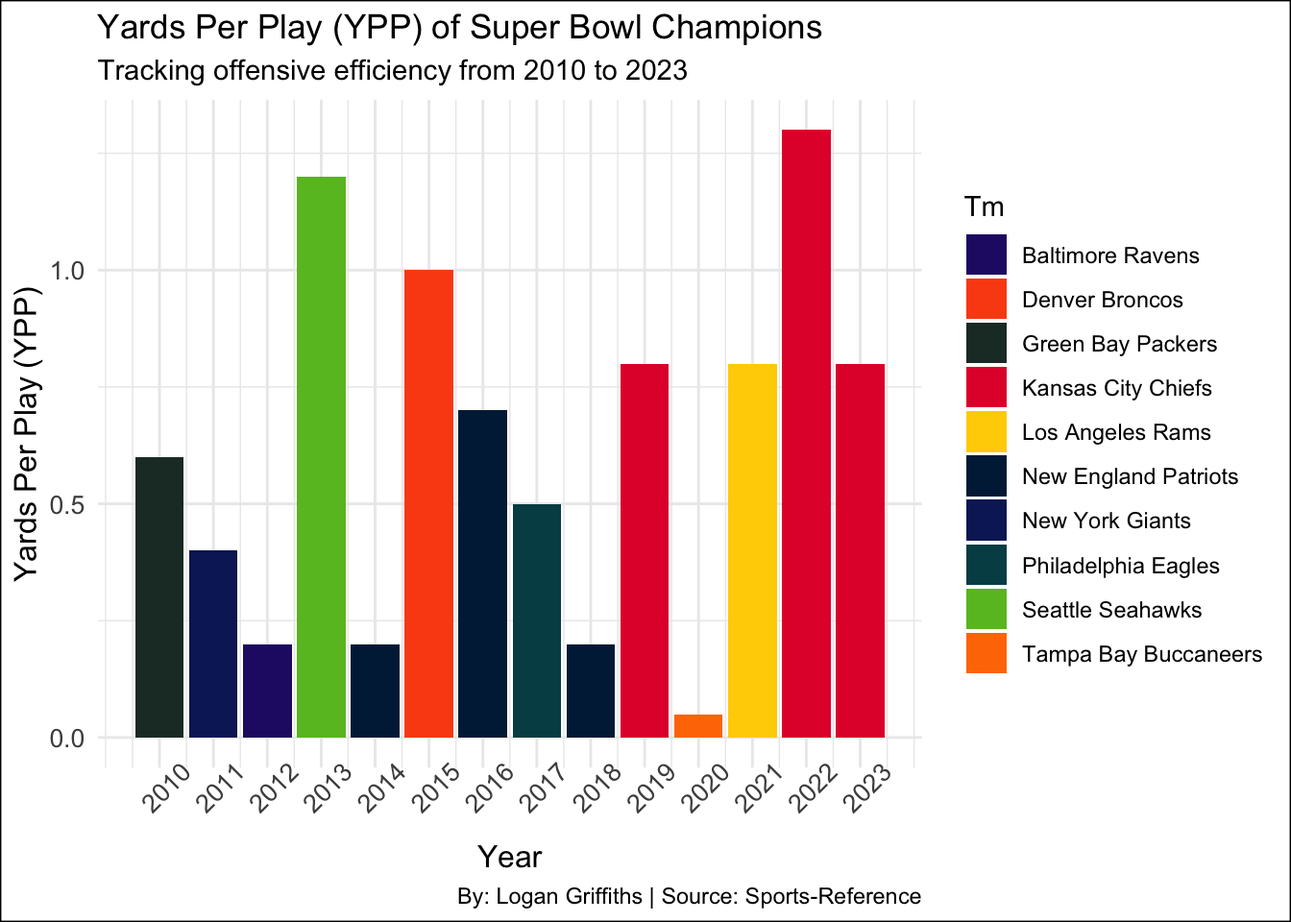
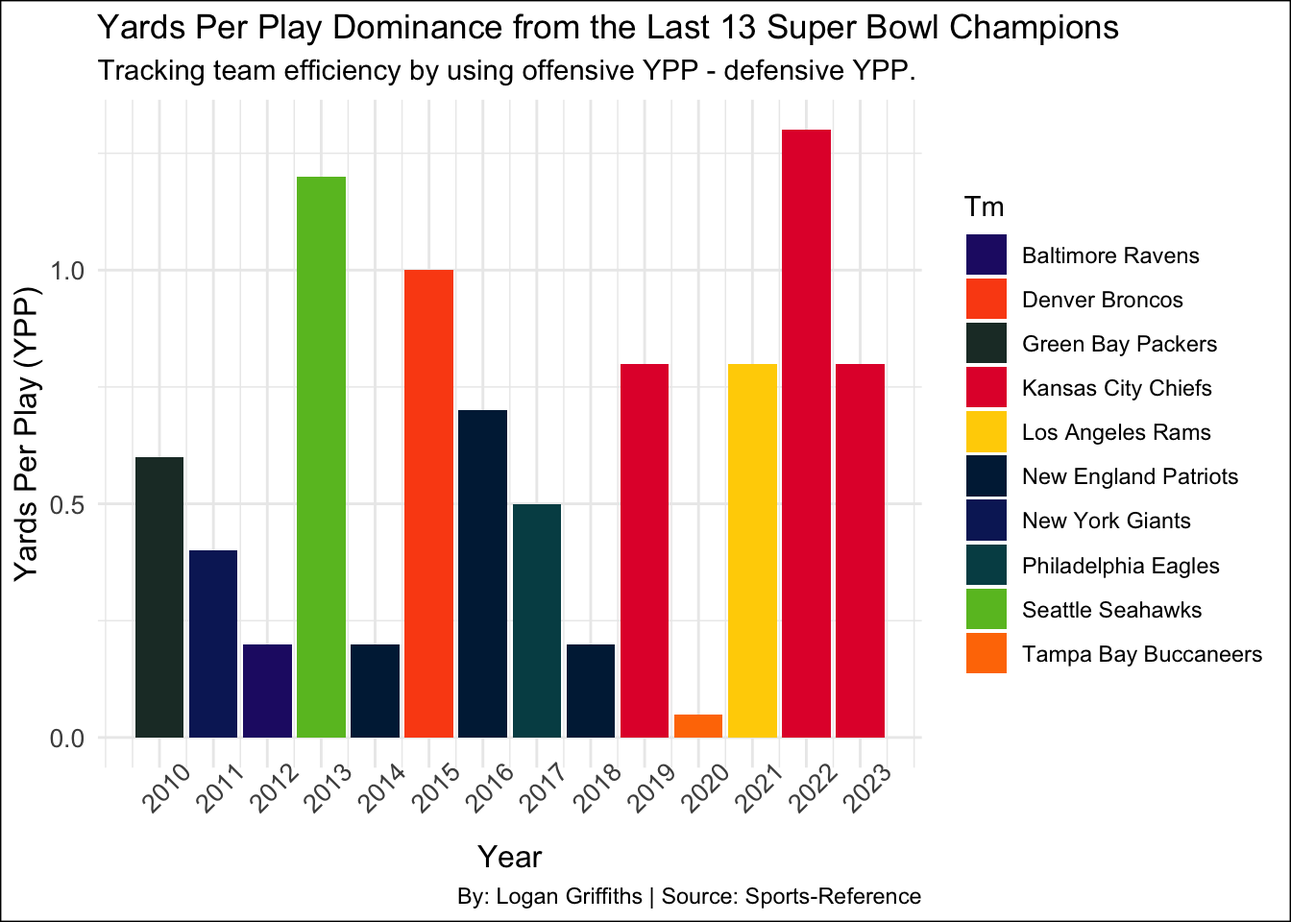
Revision Process

Changed region(s): [[0.1562, 0.0, 0.875, 0.0938]]

diff --git a/posts/Does-Defense-Win-Championships/Index.html b/posts/Does-Defense-Win-Championships/Index.html
@@ -198,22 +198,23 @@ pre > code.sourceCode > span > a:first-child::before { text-decoration: underlin
 <span id="cb1-3"><a href="#cb1-3" aria-hidden="true" tabindex="-1"></a>  <span class="fu">geom_bar</span>(<span class="at">data =</span> Superbowl_Defense, <span class="fu">aes</span>(<span class="at">x =</span> <span class="fu">reorder</span>(Tm, Year), <span class="at">y =</span> Rk, <span class="at">fill =</span> Tm), <span class="at">stat =</span> <span class="st">"identity"</span>) <span class="sc">+</span></span>
 <span id="cb1-4"><a href="#cb1-4" aria-hidden="true" tabindex="-1"></a>  <span class="fu">scale_fill_manual</span>(<span class="at">values =</span> team_colors) <span class="sc">+</span> </span>
 <span id="cb1-5"><a href="#cb1-5" aria-hidden="true" tabindex="-1"></a>  <span class="fu">labs</span>(</span>
-<span id="cb1-6"><a href="#cb1-6" aria-hidden="true" tabindex="-1"></a>    <span class="at">title =</span> <span class="st">"Superbowl Teams Defensive Rankings"</span>,</span>
-<span id="cb1-7"><a href="#cb1-7" aria-hidden="true" tabindex="-1"></a>    <span class="at">subtitle =</span> <span class="st">"The defensive ranking of Superbowl champions the year that they won. (Lower = Better)"</span>,</span>
-<span id="cb1-8"><a href="#cb1-8" aria-hidden="true" tabindex="-1"></a>    <span class="at">caption =</span> <span class="st">"By: Logan Griffiths | Source: Sports-Reference"</span>,</span>
-<span id="cb1-9"><a href="#cb1-9" aria-hidden="true" tabindex="-1"></a>    <span class="at">x =</span> <span class="st">"Team"</span>,</span>
-<span id="cb1-10"><a href="#cb1-10" aria-hidden="true" tabindex="-1"></a>    <span class="at">y =</span> <span class="st">"Defensive Rank"</span></span>
-<span id="cb1-11"><a href="#cb1-11" aria-hidden="true" tabindex="-1"></a>  ) <span class="sc">+</span></span>
-<span id="cb1-12"><a href="#cb1-12" aria-hidden="true" tabindex="-1"></a>  <span class="co">#Adjusting all of the text so that it looks cohesive with in the graph. </span></span>
-<span id="cb1-13"><a href="#cb1-13" aria-hidden="true" tabindex="-1"></a>  <span class="fu">theme_minimal</span>() <span class="sc">+</span></span>
-<span id="cb1-14"><a href="#cb1-14" aria-hidden="true" tabindex="-1"></a>  <span class="fu">theme</span>(</span>
-<span id="cb1-15"><a href="#cb1-15" aria-hidden="true" tabindex="-1"></a>    <span class="at">legend.position =</span> <span class="st">"none"</span>,</span>
-<span id="cb1-16"><a href="#cb1-16" aria-hidden="true" tabindex="-1"></a>    <span class="at">axis.text.y =</span> <span class="fu">element_text</span>(<span class="at">size =</span> <span class="dv">10</span>),</span>
-<span id="cb1-17"><a href="#cb1-17" aria-hidden="true" tabindex="-1"></a>    <span class="at">axis.text.x =</span> <span class="fu">element_text</span>(<span class="at">size =</span> <span class="dv">8</span>, <span class="at">angle =</span> <span class="dv">60</span>, <span class="at">hjust =</span> <span class="dv">1</span>, <span class="at">vjust =</span> <span class="dv">1</span>), </span>
-<span id="cb1-18"><a href="#cb1-18" aria-hidden="true" tabindex="-1"></a>    <span class="at">axis.title.x =</span> <span class="fu">element_text</span>(<span class="at">size =</span> <span class="dv">12</span>), </span>
-<span id="cb1-19"><a href="#cb1-19" aria-hidden="true" tabindex="-1"></a>    <span class="at">axis.title.y =</span> <span class="fu">element_text</span>(<span class="at">size =</span> <span class="dv">12</span>),</span>
-<span id="cb1-20"><a href="#cb1-20" aria-hidden="true" tabindex="-1"></a>    <span class="at">plot.background =</span> <span class="fu">element_rect</span> (<span class="at">fill =</span> <span class="st">"white"</span>),</span>
-<span id="cb1-21"><a href="#cb1-21" aria-hidden="true" tabindex="-1"></a>  )</span></code><button title="Copy to Clipboard" class="code-copy-button"><i class="bi"></i></button></pre></div>
+<span id="cb1-6"><a href="#cb1-6" aria-hidden="true" tabindex="-1"></a>    <span class="at">title =</span> <span class="st">"Superbowl Teams Defensive Rankings From the Last 13 Years"</span>,</span>
+<span id="cb1-7"><a href="#cb1-7" aria-hidden="true" tabindex="-1"></a>    <span class="at">subtitle =</span> <span class="st">"The defensive ranking of superbowl champions by year they won the Super Bowl.</span></span>
+<span id="cb1-8"><a href="#cb1-8" aria-hidden="true" tabindex="-1"></a><span class="st">                                                      (Lower = Better)"</span>,</span>
+<span id="cb1-9"><a href="#cb1-9" aria-hidden="true" tabindex="-1"></a>    <span class="at">caption =</span> <span class="st">"By: Logan Griffiths | Source: Sports-Reference"</span>,</span>
+<span id="cb1-10"><a href="#cb1-10" aria-hidden="true" tabindex="-1"></a>    <span class="at">x =</span> <span class="st">"Team"</span>,</span>
+<span id="cb1-11"><a href="#cb1-11" aria-hidden="true" tabindex="-1"></a>    <span class="at">y =</span> <span class="st">"Defensive Rank"</span></span>
+<span id="cb1-12"><a href="#cb1-12" aria-hidden="true" tabindex="-1"></a>  ) <span class="sc">+</span></span>
+<span id="cb1-13"><a href="#cb1-13" aria-hidden="true" tabindex="-1"></a>  <span class="co">#Adjusting all of the text so that it looks cohesive with in the graph. </span></span>
+<span id="cb1-14"><a href="#cb1-14" aria-hidden="true" tabindex="-1"></a>  <span class="fu">theme_minimal</span>() <span class="sc">+</span></span>
+<span id="cb1-15"><a href="#cb1-15" aria-hidden="true" tabindex="-1"></a>  <span class="fu">theme</span>(</span>
+<span id="cb1-16"><a href="#cb1-16" aria-hidden="true" tabindex="-1"></a>    <span class="at">legend.position =</span> <span class="st">"none"</span>,</span>
+<span id="cb1-17"><a href="#cb1-17" aria-hidden="true" tabindex="-1"></a>    <span class="at">axis.text.y =</span> <span class="fu">element_text</span>(<span class="at">size =</span> <span class="dv">10</span>),</span>
+<span id="cb1-18"><a href="#cb1-18" aria-hidden="true" tabindex="-1"></a>    <span class="at">axis.text.x =</span> <span class="fu">element_text</span>(<span class="at">size =</span> <span class="dv">8</span>, <span class="at">angle =</span> <span class="dv">60</span>, <span class="at">hjust =</span> <span class="dv">1</span>, <span class="at">vjust =</span> <span class="dv">1</span>), </span>
+<span id="cb1-19"><a href="#cb1-19" aria-hidden="true" tabindex="-1"></a>    <span class="at">axis.title.x =</span> <span class="fu">element_text</span>(<span class="at">size =</span> <span class="dv">12</span>), </span>
+<span id="cb1-20"><a href="#cb1-20" aria-hidden="true" tabindex="-1"></a>    <span class="at">axis.title.y =</span> <span class="fu">element_text</span>(<span class="at">size =</span> <span class="dv">12</span>),</span>
+<span id="cb1-21"><a href="#cb1-21" aria-hidden="true" tabindex="-1"></a>    <span class="at">plot.background =</span> <span class="fu">element_rect</span> (<span class="at">fill =</span> <span class="st">"white"</span>),</span>
+<span id="cb1-22"><a href="#cb1-22" aria-hidden="true" tabindex="-1"></a>  )</span></code><button title="Copy to Clipboard" class="code-copy-button"><i class="bi"></i></button></pre></div>
 </details>
 <div class="cell-output-display">
 <div>
@@ -230,38 +231,44 @@ pre > code.sourceCode > span > a:first-child::before { text-decoration: underlin
 <details class="code-fold">
 <summary>Code</summary>
 <div class="sourceCode cell-code" id="cb2"><pre class="sourceCode r code-with-copy"><code class="sourceCode r"><span id="cb2-1"><a href="#cb2-1" aria-hidden="true" tabindex="-1"></a><span class="fu">ggplot</span>() <span class="sc">+</span></span>
-<span id="cb2-2"><a href="#cb2-2" aria-hidden="true" tabindex="-1"></a>  <span class="co"># Adding a pattern to show that there is a correlation whether you have a bad offense or defense</span></span>
-<span id="cb2-3"><a href="#cb2-3" aria-hidden="true" tabindex="-1"></a>  <span class="co"># and that you still fit in the mold. This code chunk will add a grey striped pattern.</span></span>
-<span id="cb2-4"><a href="#cb2-4" aria-hidden="true" tabindex="-1"></a>  <span class="fu">geom_rect_pattern</span>(</span>
-<span id="cb2-5"><a href="#cb2-5" aria-hidden="true" tabindex="-1"></a>    <span class="fu">aes</span>(<span class="at">xmin =</span> <span class="dv">10</span>, <span class="at">xmax =</span> <span class="dv">25</span>, <span class="at">ymin =</span> <span class="dv">10</span>, <span class="at">ymax =</span> <span class="dv">20</span>),</span>
-<span id="cb2-6"><a href="#cb2-6" aria-hidden="true" tabindex="-1"></a>    <span class="at">fill =</span> <span class="cn">NA</span>, <span class="at">color =</span> <span class="st">"red"</span>, <span class="at">pattern =</span> <span class="st">"stripe"</span>,</span>
-<span id="cb2-7"><a href="#cb2-7" aria-hidden="true" tabindex="-1"></a>    <span class="at">pattern_color =</span> <span class="st">"red"</span>, <span class="at">pattern_angle =</span> <span class="dv">45</span>, <span class="at">pattern_density =</span> <span class="fl">0.1</span>,</span>
-<span id="cb2-8"><a href="#cb2-8" aria-hidden="true" tabindex="-1"></a>    <span class="at">pattern_spacing =</span> <span class="fl">0.01</span>, <span class="at">inherit.aes =</span> <span class="cn">FALSE</span></span>
-<span id="cb2-9"><a href="#cb2-9" aria-hidden="true" tabindex="-1"></a>  ) <span class="sc">+</span></span>
-<span id="cb2-10"><a href="#cb2-10" aria-hidden="true" tabindex="-1"></a>  <span class="fu">geom_point</span>(<span class="at">data =</span> offenseanddefense, <span class="fu">aes</span>(<span class="at">x =</span> Rk.x, <span class="at">y =</span> Rk.y, <span class="at">color =</span> Tm), <span class="at">size =</span> <span class="dv">4</span>) <span class="sc">+</span> </span>
-<span id="cb2-11"><a href="#cb2-11" aria-hidden="true" tabindex="-1"></a>  <span class="fu">geom_text</span>(<span class="at">data =</span> offenseanddefense, </span>
-<span id="cb2-12"><a href="#cb2-12" aria-hidden="true" tabindex="-1"></a>            <span class="fu">aes</span>(<span class="at">x =</span> Rk.x, <span class="at">y =</span> Rk.y, <span class="at">label =</span> Year), </span>
-<span id="cb2-13"><a href="#cb2-13" aria-hidden="true" tabindex="-1"></a>            <span class="at">hjust =</span> <span class="fu">ifelse</span>(offenseanddefense<span class="sc">$</span>Year <span class="sc">==</span> <span class="dv">2014</span>, <span class="sc">-</span>.<span class="dv">5</span>, <span class="fl">0.5</span>), <span class="co"># Originally 2014 was overlapping 2018, so I horizontally adjusted it to align it properly.</span></span>
-<span id="cb2-14"><a href="#cb2-14" aria-hidden="true" tabindex="-1"></a>            <span class="at">vjust =</span> <span class="fu">ifelse</span>(offenseanddefense<span class="sc">$</span>Year <span class="sc">%in%</span> <span class="fu">c</span>(<span class="dv">2021</span>, <span class="dv">2019</span>, <span class="dv">2022</span>), <span class="sc">-</span><span class="dv">2</span>, </span>
-<span id="cb2-15"><a href="#cb2-15" aria-hidden="true" tabindex="-1"></a>                           <span class="fu">ifelse</span>(offenseanddefense<span class="sc">$</span>Year <span class="sc">==</span> <span class="dv">2014</span>, <span class="dv">0</span>, <span class="dv">3</span>)), <span class="co"># Originally 2021,2019,2022, and 2014 were all overlapping with some dot or text. I vertically adjusted so the graph would be cleaner. </span></span>
-<span id="cb2-16"><a href="#cb2-16" aria-hidden="true" tabindex="-1"></a>            <span class="at">size =</span> <span class="fl">2.5</span>) <span class="sc">+</span> </span>
-<span id="cb2-17"><a href="#cb2-17" aria-hidden="true" tabindex="-1"></a>  <span class="fu">labs</span>(</span>
-<span id="cb2-18"><a href="#cb2-18" aria-hidden="true" tabindex="-1"></a>    <span class="at">title =</span> <span class="st">"Comparison of Defensive and Offensive Ranks"</span>,</span>
-<span id="cb2-19"><a href="#cb2-19" aria-hidden="true" tabindex="-1"></a>    <span class="at">subtitle =</span> <span class="st">"Super Bowl champions' defensive and offensive ranks in the year they won (Lower = Better)"</span>,</span>
-<span id="cb2-20"><a href="#cb2-20" aria-hidden="true" tabindex="-1"></a>    <span class="at">x =</span> <span class="st">"Defensive Rank"</span>,</span>
-<span id="cb2-21"><a href="#cb2-21" aria-hidden="true" tabindex="-1"></a>    <span class="at">y =</span> <span class="st">"Offensive Rank"</span>,</span>
-<span id="cb2-22"><a href="#cb2-22" aria-hidden="true" tabindex="-1"></a>    <span class="at">color =</span> <span class="st">"Team"</span>, </span>
-<span id="cb2-23"><a href="#cb2-23" aria-hidden="true" tabindex="-1"></a>    <span class="at">caption =</span> <span class="st">"By: Logan Griffiths | Source: Sports-Reference"</span></span>
-<span id="cb2-24"><a href="#cb2-24" aria-hidden="true" tabindex="-1"></a>  ) <span class="sc">+</span></span>
-<span id="cb2-25"><a href="#cb2-25" aria-hidden="true" tabindex="-1"></a>  <span class="fu">scale_color_manual</span>(<span class="at">values =</span> team_colors_two) <span class="sc">+</span> </span>
-<span id="cb2-26"><a href="#cb2-26" aria-hidden="true" tabindex="-1"></a>  <span class="fu">theme_minimal</span>() <span class="sc">+</span></span>
-<span id="cb2-27"><a href="#cb2-27" aria-hidden="true" tabindex="-1"></a>  <span class="fu">theme</span>(</span>
-<span id="cb2-28"><a href="#cb2-28" aria-hidden="true" tabindex="-1"></a>    <span class="at">legend.position =</span> <span class="st">"right"</span>, </span>
-<span id="cb2-29"><a href="#cb2-29" aria-hidden="true" tabindex="-1"></a>    <span class="at">legend.text =</span> <span class="fu">element_text</span>(<span class="at">size =</span> <span class="dv">8</span>), </span>
-<span id="cb2-30"><a href="#cb2-30" aria-hidden="true" tabindex="-1"></a>    <span class="at">axis.text =</span> <span class="fu">element_text</span>(<span class="at">size =</span> <span class="dv">10</span>),</span>
-<span id="cb2-31"><a href="#cb2-31" aria-hidden="true" tabindex="-1"></a>    <span class="at">axis.title =</span> <span class="fu">element_text</span>(<span class="at">size =</span> <span class="dv">12</span>),</span>
-<span id="cb2-32"><a href="#cb2-32" aria-hidden="true" tabindex="-1"></a>    <span class="at">plot.background =</span> <span class="fu">element_rect</span> (<span class="at">fill =</span> <span class="st">"white"</span>)</span>
-<span id="cb2-33"><a href="#cb2-33" aria-hidden="true" tabindex="-1"></a>  )</span></code><button title="Copy to Clipboard" class="code-copy-button"><i class="bi"></i></button></pre></div>
+<span id="cb2-2"><a href="#cb2-2" aria-hidden="true" tabindex="-1"></a>  <span class="co"># Adding a pattern to show that there is a correlation whether you have a bad offense or defense and that you still fit in the mold. This code chunk will add a grey striped pattern. The red part is showing that now Super Bowl Team has been out of the Top 10 for both offense and defense. </span></span>
+<span id="cb2-3"><a href="#cb2-3" aria-hidden="true" tabindex="-1"></a>  <span class="fu">geom_rect_pattern</span>(</span>
+<span id="cb2-4"><a href="#cb2-4" aria-hidden="true" tabindex="-1"></a>    <span class="fu">aes</span>(<span class="at">xmin =</span> <span class="dv">10</span>, <span class="at">xmax =</span> <span class="dv">25</span>, <span class="at">ymin =</span> <span class="dv">10</span>, <span class="at">ymax =</span> <span class="dv">20</span>),</span>
+<span id="cb2-5"><a href="#cb2-5" aria-hidden="true" tabindex="-1"></a>    <span class="at">fill =</span> <span class="cn">NA</span>, <span class="at">color =</span> <span class="st">"red"</span>, <span class="at">pattern =</span> <span class="st">"stripe"</span>,</span>
+<span id="cb2-6"><a href="#cb2-6" aria-hidden="true" tabindex="-1"></a>    <span class="at">pattern_color =</span> <span class="st">"lightgrey"</span>, <span class="at">pattern_angle =</span> <span class="dv">45</span>, <span class="at">pattern_density =</span> <span class="fl">0.05</span>,</span>
+<span id="cb2-7"><a href="#cb2-7" aria-hidden="true" tabindex="-1"></a>    <span class="at">pattern_spacing =</span> <span class="fl">0.01</span>, <span class="at">inherit.aes =</span> <span class="cn">FALSE</span></span>
+<span id="cb2-8"><a href="#cb2-8" aria-hidden="true" tabindex="-1"></a>  ) <span class="sc">+</span></span>
+<span id="cb2-9"><a href="#cb2-9" aria-hidden="true" tabindex="-1"></a>  <span class="fu">geom_point</span>(<span class="at">data =</span> offenseanddefense, <span class="fu">aes</span>(<span class="at">x =</span> Rk.x, <span class="at">y =</span> Rk.y, <span class="at">color =</span> Tm), <span class="at">size =</span> <span class="dv">4</span>) <span class="sc">+</span> </span>
+<span id="cb2-10"><a href="#cb2-10" aria-hidden="true" tabindex="-1"></a>  <span class="fu">geom_text</span>(<span class="at">data =</span> offenseanddefense, </span>
+<span id="cb2-11"><a href="#cb2-11" aria-hidden="true" tabindex="-1"></a>            <span class="fu">aes</span>(<span class="at">x =</span> Rk.x, <span class="at">y =</span> Rk.y, <span class="at">label =</span> Year), </span>
+<span id="cb2-12"><a href="#cb2-12" aria-hidden="true" tabindex="-1"></a>            <span class="at">hjust =</span> <span class="fu">ifelse</span>(offenseanddefense<span class="sc">$</span>Year <span class="sc">==</span> <span class="dv">2014</span>, <span class="sc">-</span>.<span class="dv">5</span>, <span class="fl">0.5</span>), <span class="co"># Originally 2014 was overlapping 2018, so I horizontally adjusted it to align it properly.</span></span>
+<span id="cb2-13"><a href="#cb2-13" aria-hidden="true" tabindex="-1"></a>            <span class="at">vjust =</span> <span class="fu">ifelse</span>(offenseanddefense<span class="sc">$</span>Year <span class="sc">%in%</span> <span class="fu">c</span>(<span class="dv">2021</span>, <span class="dv">2019</span>, <span class="dv">2022</span>), <span class="sc">-</span><span class="dv">2</span>, </span>
+<span id="cb2-14"><a href="#cb2-14" aria-hidden="true" tabindex="-1"></a>                           <span class="fu">ifelse</span>(offenseanddefense<span class="sc">$</span>Year <span class="sc">==</span> <span class="dv">2014</span>, <span class="dv">0</span>, <span class="dv">3</span>)), <span class="co"># Originally 2021,2019,2022, and 2014 were all overlapping with some dot or text. I vertically adjusted so the graph would be cleaner. </span></span>
+<span id="cb2-15"><a href="#cb2-15" aria-hidden="true" tabindex="-1"></a>            <span class="at">size =</span> <span class="fl">2.5</span>) <span class="sc">+</span> </span>
+<span id="cb2-16"><a href="#cb2-16" aria-hidden="true" tabindex="-1"></a>  <span class="co">#Annotating the red box for context.</span></span>
+<span id="cb2-17"><a href="#cb2-17" aria-hidden="true" tabindex="-1"></a>   <span class="fu">annotate</span>(</span>
+<span id="cb2-18"><a href="#cb2-18" aria-hidden="true" tabindex="-1"></a>    <span class="st">"text"</span>, <span class="at">x =</span> <span class="fl">17.5</span>, <span class="at">y =</span> <span class="dv">15</span>, <span class="at">label =</span> <span class="st">"No Super Bowl champion has been </span></span>
+<span id="cb2-19"><a href="#cb2-19" aria-hidden="true" tabindex="-1"></a><span class="st">    outside the top 10 for both metrics."</span>,</span>
+<span id="cb2-20"><a href="#cb2-20" aria-hidden="true" tabindex="-1"></a>    <span class="at">color =</span> <span class="st">"black"</span>, <span class="at">size =</span> <span class="dv">4</span>, <span class="at">hjust =</span> <span class="fl">0.5</span></span>
+<span id="cb2-21"><a href="#cb2-21" aria-hidden="true" tabindex="-1"></a>  ) <span class="sc">+</span></span>
+<span id="cb2-22"><a href="#cb2-22" aria-hidden="true" tabindex="-1"></a>  <span class="co">#Adding all of the labels for my chart.</span></span>
+<span id="cb2-23"><a href="#cb2-23" aria-hidden="true" tabindex="-1"></a>  <span class="fu">labs</span>(</span>
+<span id="cb2-24"><a href="#cb2-24" aria-hidden="true" tabindex="-1"></a>    <span class="at">title =</span> <span class="st">"The Last 13 Super Bowl Winners Offensive-Defensive Comparison "</span>,</span>
+<span id="cb2-25"><a href="#cb2-25" aria-hidden="true" tabindex="-1"></a>    <span class="at">subtitle =</span> <span class="st">"Super Bowl champions' defensive and offensive ranks in the year they won."</span>,</span>
+<span id="cb2-26"><a href="#cb2-26" aria-hidden="true" tabindex="-1"></a>    <span class="at">x =</span> <span class="st">"Defensive Rank"</span>,</span>
+<span id="cb2-27"><a href="#cb2-27" aria-hidden="true" tabindex="-1"></a>    <span class="at">y =</span> <span class="st">"Offensive Rank"</span>,</span>
+<span id="cb2-28"><a href="#cb2-28" aria-hidden="true" tabindex="-1"></a>    <span class="at">color =</span> <span class="st">"Team"</span>, </span>
+<span id="cb2-29"><a href="#cb2-29" aria-hidden="true" tabindex="-1"></a>    <span class="at">caption =</span> <span class="st">"By: Logan Griffiths | Source: Sports-Reference"</span></span>
+<span id="cb2-30"><a href="#cb2-30" aria-hidden="true" tabindex="-1"></a>  ) <span class="sc">+</span></span>
+<span id="cb2-31"><a href="#cb2-31" aria-hidden="true" tabindex="-1"></a>  <span class="fu">scale_color_manual</span>(<span class="at">values =</span> team_colors_two) <span class="sc">+</span> </span>
+<span id="cb2-32"><a href="#cb2-32" aria-hidden="true" tabindex="-1"></a>  <span class="fu">theme_minimal</span>() <span class="sc">+</span></span>
+<span id="cb2-33"><a href="#cb2-33" aria-hidden="true" tabindex="-1"></a>  <span class="fu">theme</span>(</span>
+<span id="cb2-34"><a href="#cb2-34" aria-hidden="true" tabindex="-1"></a>    <span class="at">legend.position =</span> <span class="st">"right"</span>, </span>
+<span id="cb2-35"><a href="#cb2-35" aria-hidden="true" tabindex="-1"></a>    <span class="at">legend.text =</span> <span class="fu">element_text</span>(<span class="at">size =</span> <span class="dv">8</span>), </span>
+<span id="cb2-36"><a href="#cb2-36" aria-hidden="true" tabindex="-1"></a>    <span class="at">axis.text =</span> <span class="fu">element_text</span>(<span class="at">size =</span> <span class="dv">10</span>),</span>
+<span id="cb2-37"><a href="#cb2-37" aria-hidden="true" tabindex="-1"></a>    <span class="at">axis.title =</span> <span class="fu">element_text</span>(<span class="at">size =</span> <span class="dv">12</span>),</span>
+<span id="cb2-38"><a href="#cb2-38" aria-hidden="true" tabindex="-1"></a>    <span class="at">plot.background =</span> <span class="fu">element_rect</span> (<span class="at">fill =</span> <span class="st">"white"</span>)</span>
+<span id="cb2-39"><a href="#cb2-39" aria-hidden="true" tabindex="-1"></a>  )</span></code><button title="Copy to Clipboard" class="code-copy-button"><i class="bi"></i></button></pre></div>
 </details>
 <div class="cell-output-display">
 <div>
@@ -279,26 +286,28 @@ pre > code.sourceCode > span > a:first-child::before { text-decoration: underlin
 <div class="cell">
 <details class="code-fold">
 <summary>Code</summary>
-<div class="sourceCode cell-code" id="cb3"><pre class="sourceCode r code-with-copy"><code class="sourceCode r"><span id="cb3-1"><a href="#cb3-1" aria-hidden="true" tabindex="-1"></a><span class="fu">ggplot</span>() <span class="sc">+</span></span>
-<span id="cb3-2"><a href="#cb3-2" aria-hidden="true" tabindex="-1"></a>  <span class="fu">geom_bar</span>(<span class="at">data =</span> YPP_Difference, <span class="fu">aes</span>(<span class="at">x =</span> Year, <span class="at">y =</span> YPP, <span class="at">fill =</span> Tm), <span class="at">stat =</span> <span class="st">"identity"</span>) <span class="sc">+</span></span>
-<span id="cb3-3"><a href="#cb3-3" aria-hidden="true" tabindex="-1"></a>  <span class="fu">scale_fill_manual</span>(<span class="at">values =</span> team_colors_two) <span class="sc">+</span> </span>
-<span id="cb3-4"><a href="#cb3-4" aria-hidden="true" tabindex="-1"></a>  <span class="fu">scale_x_continuous</span>(<span class="at">breaks =</span> <span class="fu">seq</span>(<span class="fu">min</span>(YPP_Difference<span class="sc">$</span>Year), <span class="fu">max</span>(YPP_Difference<span class="sc">$</span>Year), <span class="at">by =</span> <span class="dv">1</span>)) <span class="sc">+</span> </span>
-<span id="cb3-5"><a href="#cb3-5" aria-hidden="true" tabindex="-1"></a>  <span class="fu">labs</span>(</span>
-<span id="cb3-6"><a href="#cb3-6" aria-hidden="true" tabindex="-1"></a>    <span class="at">title =</span> <span class="st">"Yards Per Play (YPP) of Super Bowl Champions"</span>,</span>
-<span id="cb3-7"><a href="#cb3-7" aria-hidden="true" tabindex="-1"></a>    <span class="at">subtitle =</span> <span class="st">"Tracking offensive efficiency from 2010 to 2023"</span>,</span>
-<span id="cb3-8"><a href="#cb3-8" aria-hidden="true" tabindex="-1"></a>    <span class="at">caption =</span> <span class="st">"By: Logan Griffiths | Source: Sports-Reference"</span>,</span>
-<span id="cb3-9"><a href="#cb3-9" aria-hidden="true" tabindex="-1"></a>    <span class="at">x =</span> <span class="st">"Year"</span>,</span>
-<span id="cb3-10"><a href="#cb3-10" aria-hidden="true" tabindex="-1"></a>    <span class="at">y =</span> <span class="st">"Yards Per Play (YPP)"</span></span>
-<span id="cb3-11"><a href="#cb3-11" aria-hidden="true" tabindex="-1"></a>  ) <span class="sc">+</span></span>
-<span id="cb3-12"><a href="#cb3-12" aria-hidden="true" tabindex="-1"></a>  <span class="fu">theme_minimal</span>() <span class="sc">+</span></span>
-<span id="cb3-13"><a href="#cb3-13" aria-hidden="true" tabindex="-1"></a>  <span class="fu">theme</span>(</span>
-<span id="cb3-14"><a href="#cb3-14" aria-hidden="true" tabindex="-1"></a>    <span class="at">legend.position =</span> <span class="st">"right"</span>,</span>
-<span id="cb3-15"><a href="#cb3-15" aria-hidden="true" tabindex="-1"></a>    <span class="at">axis.text.y =</span> <span class="fu">element_text</span>(<span class="at">size =</span> <span class="dv">10</span>),</span>
-<span id="cb3-16"><a href="#cb3-16" aria-hidden="true" tabindex="-1"></a>    <span class="at">axis.text.x =</span> <span class="fu">element_text</span>(<span class="at">size =</span> <span class="dv">10</span>, <span class="at">angle =</span> <span class="dv">45</span>), </span>
-<span id="cb3-17"><a href="#cb3-17" aria-hidden="true" tabindex="-1"></a>    <span class="at">axis.title.x =</span> <span class="fu">element_text</span>(<span class="at">size =</span> <span class="dv">12</span>), </span>
-<span id="cb3-18"><a href="#cb3-18" aria-hidden="true" tabindex="-1"></a>    <span class="at">axis.title.y =</span> <span class="fu">element_text</span>(<span class="at">size =</span> <span class="dv">12</span>),</span>
-<span id="cb3-19"><a href="#cb3-19" aria-hidden="true" tabindex="-1"></a>    <span class="at">plot.background =</span> <span class="fu">element_rect</span>(<span class="at">fill =</span> <span class="st">"white"</span>)</span>
-<span id="cb3-20"><a href="#cb3-20" aria-hidden="true" tabindex="-1"></a>  )</span></code><button title="Copy to Clipboard" class="code-copy-button"><i class="bi"></i></button></pre></div>
+<div class="sourceCode cell-code" id="cb3"><pre class="sourceCode r code-with-copy"><code class="sourceCode r"><span id="cb3-1"><a href="#cb3-1" aria-hidden="true" tabindex="-1"></a><span class="co">#Representing the Yards Per Play Differential for all of the 13 teams who have won the Super Bowl since 2010. I subtracted offensive yards per play - defensive yards per play. </span></span>
+<span id="cb3-2"><a href="#cb3-2" aria-hidden="true" tabindex="-1"></a><span class="co">#Additionally this is where I have added labels for the graph. </span></span>
+<span id="cb3-3"><a href="#cb3-3" aria-hidden="true" tabindex="-1"></a><span class="fu">ggplot</span>() <span class="sc">+</span></span>
+<span id="cb3-4"><a href="#cb3-4" aria-hidden="true" tabindex="-1"></a>  <span class="fu">geom_bar</span>(<span class="at">data =</span> YPP_Difference, <span class="fu">aes</span>(<span class="at">x =</span> Year, <span class="at">y =</span> YPP, <span class="at">fill =</span> Tm), <span class="at">stat =</span> <span class="st">"identity"</span>) <span class="sc">+</span></span>
+<span id="cb3-5"><a href="#cb3-5" aria-hidden="true" tabindex="-1"></a>  <span class="fu">scale_fill_manual</span>(<span class="at">values =</span> team_colors_two) <span class="sc">+</span> </span>
+<span id="cb3-6"><a href="#cb3-6" aria-hidden="true" tabindex="-1"></a>  <span class="fu">scale_x_continuous</span>(<span class="at">breaks =</span> <span class="fu">seq</span>(<span class="fu">min</span>(YPP_Difference<span class="sc">$</span>Year), <span class="fu">max</span>(YPP_Difference<span class="sc">$</span>Year), <span class="at">by =</span> <span class="dv">1</span>)) <span class="sc">+</span> </span>
+<span id="cb3-7"><a href="#cb3-7" aria-hidden="true" tabindex="-1"></a>  <span class="fu">labs</span>(</span>
+<span id="cb3-8"><a href="#cb3-8" aria-hidden="true" tabindex="-1"></a>    <span class="at">title =</span> <span class="st">"Yards Per Play Dominance from the Last 13 Super Bowl Champions"</span>,</span>
+<span id="cb3-9"><a href="#cb3-9" aria-hidden="true" tabindex="-1"></a>    <span class="at">subtitle =</span> <span class="st">"Tracking team efficiency by using offensive YPP - defensive YPP."</span>,</span>
+<span id="cb3-10"><a href="#cb3-10" aria-hidden="true" tabindex="-1"></a>    <span class="at">caption =</span> <span class="st">"By: Logan Griffiths | Source: Sports-Reference"</span>,</span>
+<span id="cb3-11"><a href="#cb3-11" aria-hidden="true" tabindex="-1"></a>    <span class="at">x =</span> <span class="st">"Year"</span>,</span>
+<span id="cb3-12"><a href="#cb3-12" aria-hidden="true" tabindex="-1"></a>    <span class="at">y =</span> <span class="st">"Yards Per Play (YPP)"</span></span>
+<span id="cb3-13"><a href="#cb3-13" aria-hidden="true" tabindex="-1"></a>  ) <span class="sc">+</span></span>
+<span id="cb3-14"><a href="#cb3-14" aria-hidden="true" tabindex="-1"></a>  <span class="fu">theme_minimal</span>() <span class="sc">+</span></span>
+<span id="cb3-15"><a href="#cb3-15" aria-hidden="true" tabindex="-1"></a>  <span class="fu">theme</span>(</span>
+<span id="cb3-16"><a href="#cb3-16" aria-hidden="true" tabindex="-1"></a>    <span class="at">legend.position =</span> <span class="st">"right"</span>,</span>
+<span id="cb3-17"><a href="#cb3-17" aria-hidden="true" tabindex="-1"></a>    <span class="at">axis.text.y =</span> <span class="fu">element_text</span>(<span class="at">size =</span> <span class="dv">10</span>),</span>
+<span id="cb3-18"><a href="#cb3-18" aria-hidden="true" tabindex="-1"></a>    <span class="at">axis.text.x =</span> <span class="fu">element_text</span>(<span class="at">size =</span> <span class="dv">10</span>, <span class="at">angle =</span> <span class="dv">45</span>), </span>
+<span id="cb3-19"><a href="#cb3-19" aria-hidden="true" tabindex="-1"></a>    <span class="at">axis.title.x =</span> <span class="fu">element_text</span>(<span class="at">size =</span> <span class="dv">12</span>), </span>
+<span id="cb3-20"><a href="#cb3-20" aria-hidden="true" tabindex="-1"></a>    <span class="at">axis.title.y =</span> <span class="fu">element_text</span>(<span class="at">size =</span> <span class="dv">12</span>),</span>
+<span id="cb3-21"><a href="#cb3-21" aria-hidden="true" tabindex="-1"></a>    <span class="at">plot.background =</span> <span class="fu">element_rect</span>(<span class="at">fill =</span> <span class="st">"white"</span>)</span>
+<span id="cb3-22"><a href="#cb3-22" aria-hidden="true" tabindex="-1"></a>  )</span></code><button title="Copy to Clipboard" class="code-copy-button"><i class="bi"></i></button></pre></div>
 </details>
 <div class="cell-output-display">
 <div>

diff --git a/index.html b/index.html
@@ -238,7 +238,7 @@ Logan Griffiths
 </a>
 </div>
 </div>
-<div class="quarto-post image-right" data-index="1" data-categories="RGF0YSBEcml2ZW4gQXJ0aWNsZXM=" data-listing-date-sort="1730786400000" data-listing-file-modified-sort="1733532667254" data-listing-date-modified-sort="NaN" data-listing-reading-time-sort="8" data-listing-word-count-sort="1590">
+<div class="quarto-post image-right" data-index="1" data-categories="RGF0YSBEcml2ZW4gQXJ0aWNsZXM=" data-listing-date-sort="1730786400000" data-listing-file-modified-sort="1733775869537" data-listing-date-modified-sort="NaN" data-listing-reading-time-sort="9" data-listing-word-count-sort="1782">
 <div class="thumbnail">
 <p><a href="./posts/Does-Defense-Win-Championships/Index.html" class="no-external"></a></p><a href="./posts/Does-Defense-Win-Championships/Index.html" class="no-external">
 <p><img loading="lazy" src="./posts/Does-Defense-Win-Championships/image.png" class="thumbnail-image"></p>
